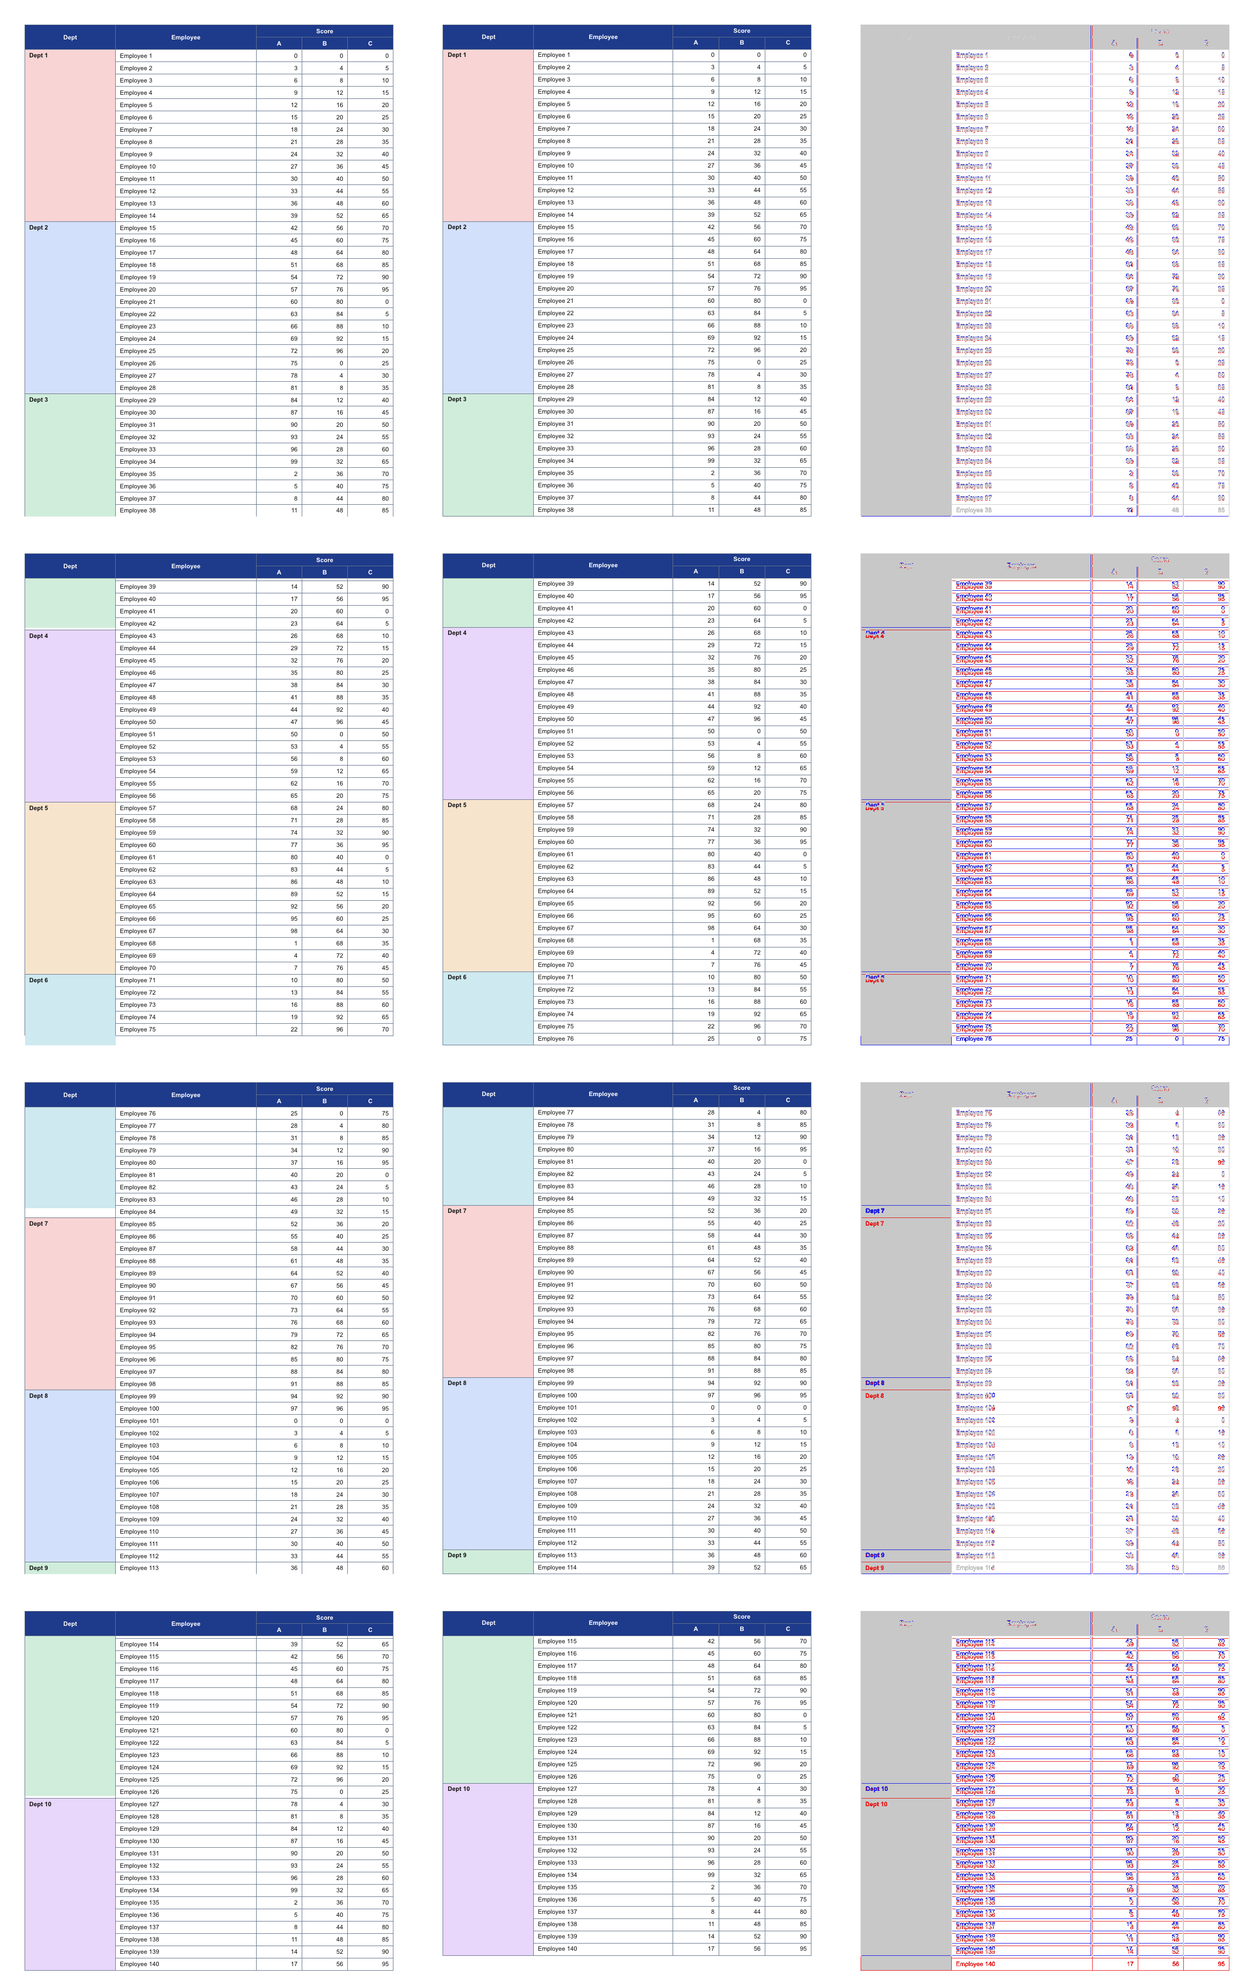
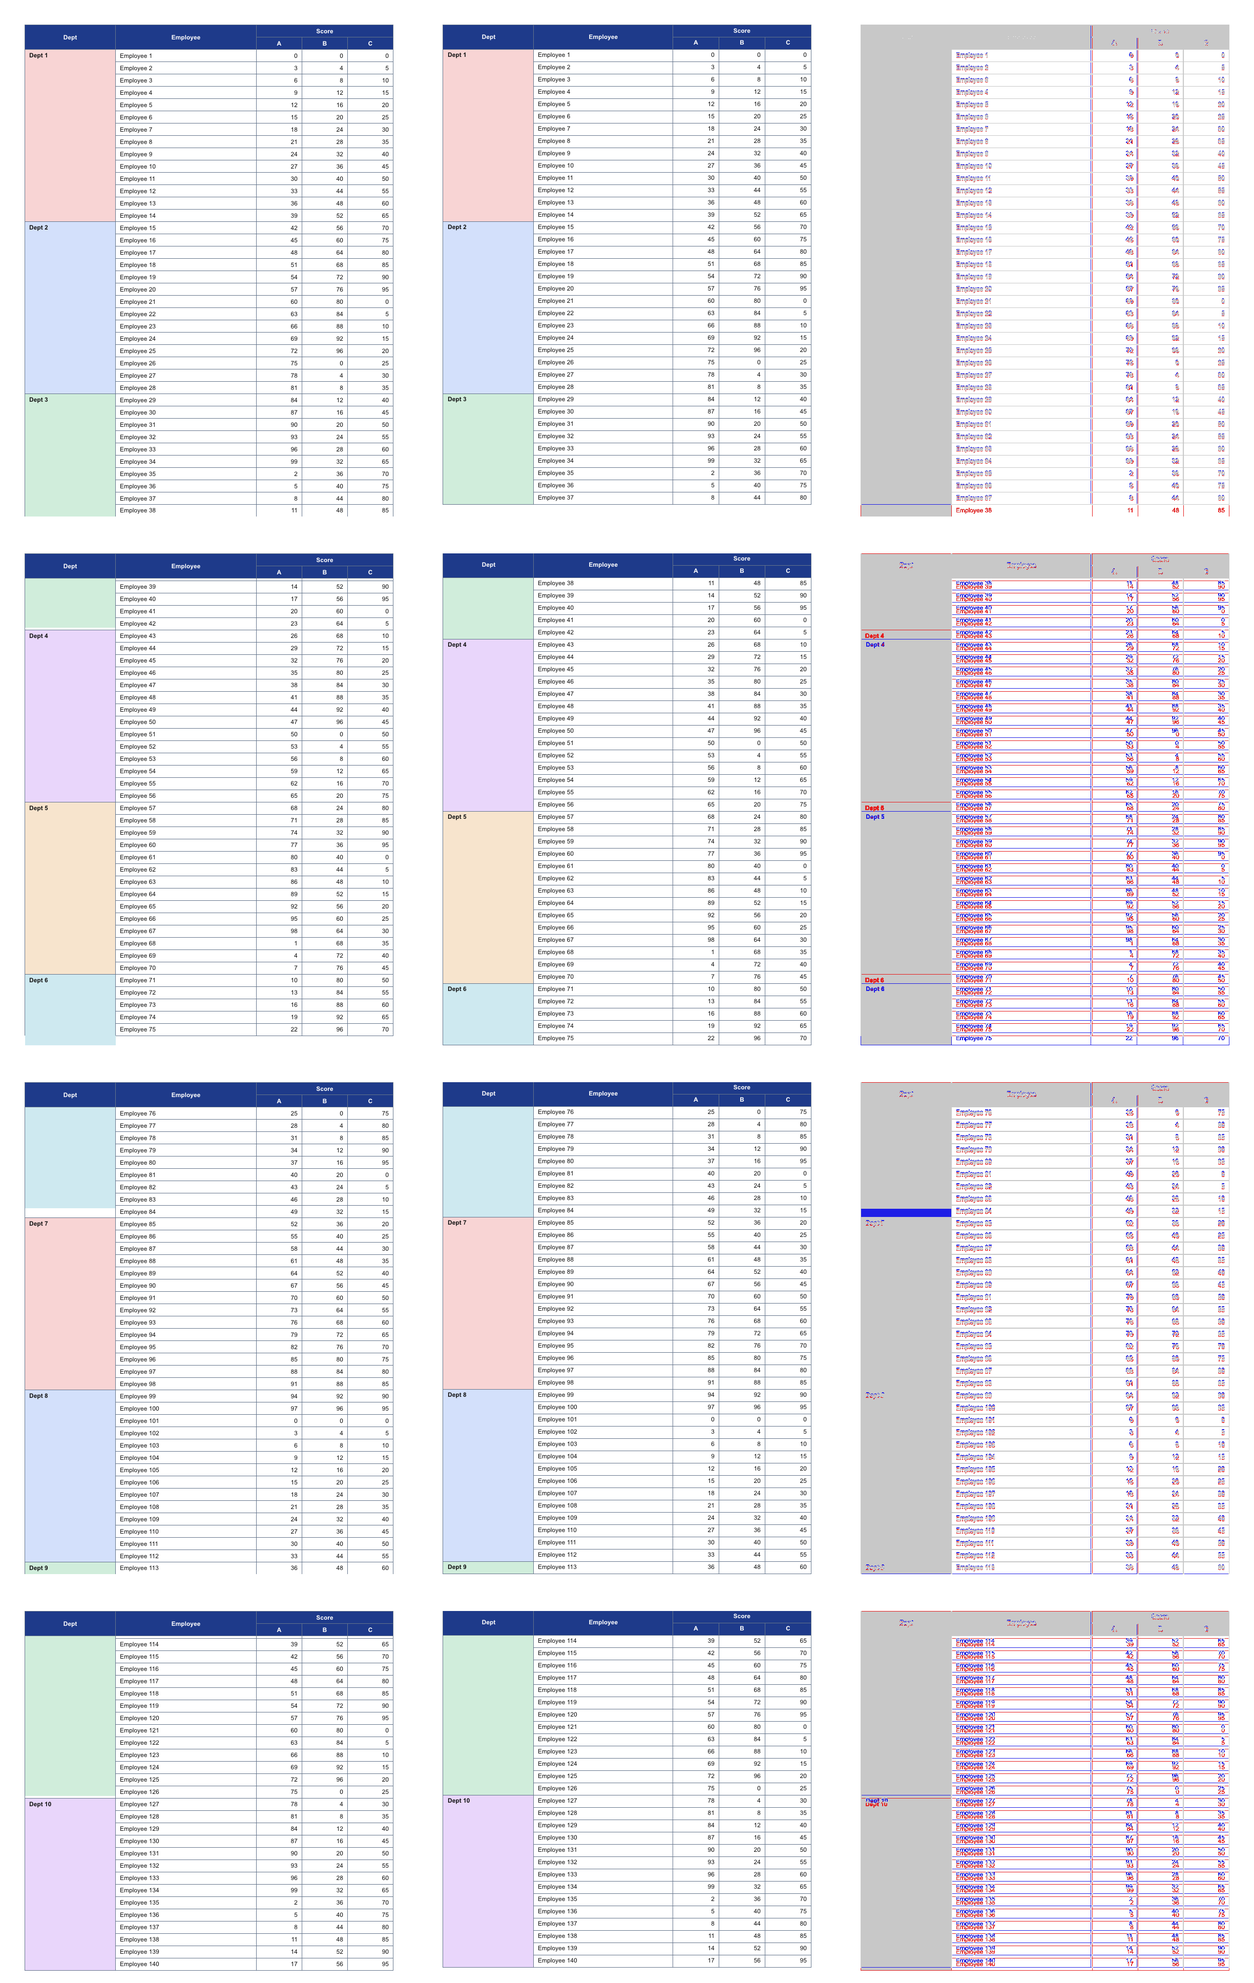
fix: repeated table headers open each page with their styling; table pagination matches Chrome (score 96.2)
- the header copy is forced onto a new page and carries the original header's computed background, colour and font
- a copy that no longer starts a page is removed again (two long tables in a row)
- table rows are never cut by a page break, a small rowspan group moves to the next page whole, a large one is split
- changelog, parity docs and baseline updated

diff --git a/vendor/fulgur/src/table_header.rs b/vendor/fulgur/src/table_header.rs
@@ -100,8 +100,10 @@ fn simulate(rows: &[RowInfo], header_height: f32, header_rows: usize, page_heigh
     starts
 }
 
-fn plan(doc: &BaseDocument, geometry: &PaginationGeometryTable, page_height: f32) -> Vec<Insertion> {
+fn plan(doc: &BaseDocument, geometry: &PaginationGeometryTable, page_height: f32) -> (Vec<Insertion>, Vec<usize>) {
     let mut out = Vec::new();
+    // body rows whose header copy no longer sits at the start of a page (see below)
+    let mut stale: Vec<usize> = Vec::new();
     for (table_id, node) in doc.tree().iter() {
         if node.element_data().is_none() || tag(doc, table_id) != Some("table") {
             continue;
@@ -143,6 +145,57 @@ fn plan(doc: &BaseDocument, geometry: &PaginationGeometryTable, page_height: f32
         if rows.len() < 2 {
             continue;
         }
+        // A page does not start in the middle of a small group of rows tied together by a `rowspan` cell (up to 4 rows): the break goes
+        // before the group's first row, so the group moves to the next page whole. A larger group is cut where the page ends (its
+        // spanning cell is split, see `plan_span_splits`).
+        let reach: Vec<usize> = rows
+            .iter()
+            .enumerate()
+            .map(|(i, r)| {
+                let span = element_children(doc, r.id)
+                    .into_iter()
+                    .filter_map(|c| {
+                        doc.get_node(c)
+                            .and_then(|n| n.element_data())
+                            .and_then(|e| crate::blitz_adapter::get_attr(e, "rowspan"))
+                            .and_then(|v| v.trim().parse::<usize>().ok())
+                    })
+                    .max()
+                    .unwrap_or(1)
+                    .clamp(1, 1000);
+                if span <= 4 { i + span - 1 } else { i }
+            })
+            .collect();
+        // A copy is stale when the row after it would have fitted on the page before: the copies put in front of earlier pages pushed the
+        // rows down, so the break that was predicted (before this row) now falls elsewhere. Left in place it would break the page for
+        // nothing, so it is taken out again.
+        // (Left alone in a table with `rowspan` cells, where a row's height is not the room it needs.)
+        let any_rowspan = rows.iter().any(|r| {
+            element_children(doc, r.id).into_iter().any(|c| {
+                doc.get_node(c)
+                    .and_then(|n| n.element_data())
+                    .and_then(|e| crate::blitz_adapter::get_attr(e, "rowspan"))
+                    .and_then(|v| v.trim().parse::<usize>().ok())
+                    .is_some_and(|n| n > 1)
+            })
+        });
+        if has_copies && !any_rowspan {
+            let gap = rows
+                .windows(2)
+                .find(|w| w[0].page == w[1].page)
+                .map_or(0.0, |w| (w[1].y - (w[0].y + w[0].height)).max(0.0));
+            for i in 1..rows.len() {
+                if copy_before.contains(&rows[i].id) {
+                    let (prev, row) = (&rows[i - 1], &rows[i]);
+                    // the row and the rest of its small `rowspan` group have to fit together
+                    let group_end = reach[i].min(rows.len() - 1).max(i);
+                    let needed: f32 = rows[i..=group_end].iter().map(|r| r.height).sum::<f32>() + gap * (group_end - i) as f32;
+                    if prev.page != row.page && prev.y + prev.height + gap + needed <= page_height + 0.5 {
+                        stale.push(rows[i].id);
+                    }
+                }
+            }
+        }
         let starts: Vec<usize> = if !has_copies && rows.last().map(|r| r.page) != rows.first().map(|r| r.page) {
             // First look at this table: predict every continuation page at once. The header height is the tallest cell
             // of each header row, added up; if the header was not laid out, fall back to the page-by-page rule below.
@@ -158,13 +211,22 @@ fn plan(doc: &BaseDocument, geometry: &PaginationGeometryTable, page_height: f32
         } else {
             react(&rows)
         };
+        let group_start = |mut i: usize| {
+            while i > 0 && (0..i).any(|j| reach[j] >= i) {
+                i = (0..i).find(|&j| reach[j] >= i).unwrap_or(i);
+            }
+            i
+        };
+        let mut starts: Vec<usize> = starts.into_iter().map(group_start).collect();
+        starts.sort_unstable();
+        starts.dedup();
         for i in starts {
-            if !copy_before.contains(&rows[i].id) {
+            if !copy_before.contains(&rows[i].id) && !stale.contains(&rows[i].id) {
                 out.push(Insertion { row: rows[i].id, header_rows: header_rows.clone() });
             }
         }
     }
-    out
+    (out, stale)
 }
 
 /// The rows that start a page after the first (as the layout stands now).
@@ -230,6 +292,30 @@ fn plan_span_splits(doc: &BaseDocument, container: usize, row: usize) -> (Vec<Sp
     (splits, row_cols)
 }
 
+/// The look a header cell gets from rules that name the `<thead>` (`thead th { background: ...; color: ... }`): a copy is put among the
+/// body rows, where those rules no longer match, so its background, text colour and font are written onto the copy as they computed
+/// on the original.
+fn header_look(doc: &BaseDocument, cell: usize) -> String {
+    let Some(st) = doc.get_node(cell).and_then(|n| n.primary_styles()) else {
+        return String::new();
+    };
+    let current = st.clone_color();
+    let rgba = |c: ::style::values::computed::Color| {
+        let c = c.resolve_to_absolute(&current).into_srgb_legacy();
+        let q = |v: f32| (v.clamp(0.0, 1.0) * 255.0).round() as u8;
+        format!("rgba({},{},{},{:.3})", q(c.components.0), q(c.components.1), q(c.components.2), c.alpha.clamp(0.0, 1.0))
+    };
+    let mut out = String::new();
+    let bg = st.clone_background_color().resolve_to_absolute(&current).into_srgb_legacy();
+    if bg.alpha > 0.0 {
+        out.push_str(&format!("background-color:{};", rgba(st.clone_background_color())));
+    }
+    out.push_str(&format!("color:{};", rgba(::style::values::computed::Color::currentcolor())));
+    out.push_str(&format!("font-weight:{};", st.clone_font_weight().value()));
+    out.push_str(&format!("font-size:{}px;", st.clone_font_size().computed_size().px()));
+    out
+}
+
 /// Put header copies in front of every body row that starts a continuation page and has none yet. Returns how many
 /// rows were added (0 means the layout is final).
 pub(crate) fn repeat_table_headers(
@@ -237,8 +323,23 @@ pub(crate) fn repeat_table_headers(
     geometry: &PaginationGeometryTable,
     page_height_px: f32,
 ) -> usize {
-    let insertions = plan(doc, geometry, page_height_px);
+    let (insertions, stale) = plan(doc, geometry, page_height_px);
     let mut added = 0;
+    // Take out the copies that no longer start a page: the copy rows directly in front of the row.
+    for row in stale {
+        let Some(parent) = doc.get_node(row).and_then(|n| n.parent) else { continue };
+        let siblings = element_children(doc, parent);
+        let Some(pos) = siblings.iter().position(|&r| r == row) else { continue };
+        let copies: Vec<usize> = siblings[..pos].iter().rev().take_while(|&&r| is_copy(doc, r)).copied().collect();
+        if copies.is_empty() {
+            continue;
+        }
+        let mut m = doc.mutate();
+        for c in &copies {
+            m.remove_and_drop_node(*c);
+        }
+        added += copies.len();
+    }
     for ins in insertions {
         let container = doc.get_node(ins.row).and_then(|n| n.parent);
         let (splits, row_cols) = match container {
@@ -268,12 +369,39 @@ pub(crate) fn repeat_table_headers(
                 blitz_dom::QualName::new(None, blitz_dom::ns!(), blitz_dom::LocalName::from(COPY_ATTR)),
                 "1",
             );
-            if k == 0 {
-                // Opens the page, so the copy is never left alone at the bottom of the one before. The break is read from
-                // a cell (the table's layout children are its cells), and only the first cell of the row asks for it.
-                let first_cell = m.doc.get_node(copy).and_then(|n| n.children.iter().copied().find(|&c| m.doc.get_node(c).is_some_and(|c| c.element_data().is_some())));
-                if let Some(cell) = first_cell {
-                    m.set_style_property(cell, "break-before", "page");
+            // The cells of the copy, in order, and the cells of the row it was cloned from.
+            let copy_cells: Vec<usize> = m
+                .doc
+                .get_node(copy)
+                .map(|n| n.children.iter().copied().filter(|&c| m.doc.get_node(c).is_some_and(|c| c.element_data().is_some())).collect())
+                .unwrap_or_default();
+            let original_cells = element_children(m.doc, h);
+            let style_name = || blitz_dom::QualName::new(None, blitz_dom::ns!(), blitz_dom::LocalName::from("style"));
+            for (i, &cell) in copy_cells.iter().enumerate() {
+                let existing = m
+                    .doc
+                    .get_node(cell)
+                    .and_then(|n| n.element_data())
+                    .and_then(|e| crate::blitz_adapter::get_attr(e, "style"))
+                    .unwrap_or("")
+                    .trim_end_matches(|c: char| c == ';' || c.is_whitespace())
+                    .to_string();
+                let mut style_attr = String::new();
+                // the original's computed look goes first, so the cell's own inline style still wins
+                if let Some(&orig) = original_cells.get(i) {
+                    style_attr.push_str(&header_look(m.doc, orig));
+                }
+                if !existing.is_empty() {
+                    style_attr.push_str(&existing);
+                    style_attr.push(';');
+                }
+                // Opens the page, so the copy is never left alone at the bottom of the one before. The break rules are read from the
+                // text of the `style` attribute (not the parsed style), only the first cell of the row asks for it.
+                if k == 0 && i == 0 {
+                    style_attr.push_str("break-before:page;");
+                }
+                if !style_attr.is_empty() {
+                    m.set_attribute(cell, style_name(), &style_attr);
                 }
             }
             copies.push(copy);

diff --git a/vendor/fulgur/src/pagination_layout.rs b/vendor/fulgur/src/pagination_layout.rs
@@ -1849,15 +1849,7 @@ fn fragment_block_subtree(
         .parent
         .and_then(|gp_id| doc.get_node(gp_id))
         .is_some_and(|gp| crate::blitz_adapter::is_orthogonal_to_parent(gp, parent));
-    // pdf-engine patch: the cells of a table row sit side by side like the items of a grid row, so a table gets the same row handling
-    // (a row that crosses a page break is cut in all its cells at once, and the rest continues from the same place).
-    let allow_same_row_rebase = crate::blitz_adapter::is_flex_or_grid_container_node(parent)
-        || parent.primary_styles().is_some_and(|st| {
-            matches!(
-                st.clone_display().inside(),
-                ::style::values::specified::box_::DisplayInside::Table
-            )
-        });
+    let allow_same_row_rebase = crate::blitz_adapter::is_flex_or_grid_container_node(parent);
     let suppress_page_check = allow_same_row_rebase
         || crate::blitz_adapter::is_atomic_inline_container_node(parent)
         || parent_is_orthogonal;
@@ -2360,9 +2352,19 @@ fn fragment_block_subtree(
         let first_child_may_move = page_start_y > 0.0 && child_h <= page_height_px;
         // pdf-engine patch: browsers slice a flex or grid item that crosses the page break (unless it asks
         // for `break-inside: avoid`); it does not jump to the next page whole.
+        // A table cell that spans rows (`rowspan`) is not cut: its group of rows moves to the next page together, otherwise the cell is
+        // cut while the cells beside it move whole and the rows come apart.
+        let spans_rows = child.element_data().is_some_and(|el| {
+            crate::blitz_adapter::get_attr(el, "rowspan")
+                .and_then(|v| v.trim().parse::<usize>().ok())
+                .is_some_and(|n| n > 1)
+        });
         let slice_item_here = !is_multicol
+            && !spans_rows
             && !child.element_data().is_some_and(|el| {
-                matches!(el.name.local.as_ref(), "table" | "img" | "svg")
+                // table rows stay whole: a row cut by the break puts its first fragment on one page and the rest on the next, and the
+                // header-repeat prediction then takes the next row for the first of the page
+                matches!(el.name.local.as_ref(), "table" | "img" | "svg" | "td" | "th")
             })
             && !matches!(
                 break_props.break_inside,

diff --git a/CHANGELOG.md b/CHANGELOG.md
@@ -9,7 +9,7 @@ image `zalven88/pdf-engine:X.Y.Z` (also `X.Y`, `X` and `latest`).
 Pagination, right-to-left text and a Chrome parity score. Every page of a growing corpus (now 188 pages: whole documents,
 one-feature probes, right-to-left pages, 84 pagination pages and 16 complex tables) is made by headless Chrome and by pdf-engine,
 both drawn by the same rasteriser, and scored. The score is on the [demo page](https://lands-horizon-corp.github.io/pdf-engine/)
-and described in [Parity with Chrome](.public/docs/parity.md). The first run scored 80.3; it is now 95.71 over all 188 pages (complex tables, the newest and hardest group, score 94.15: see Known gaps).
+and described in [Parity with Chrome](.public/docs/parity.md). The first run scored 80.3; it is now 96.21 over all 188 pages (complex tables, the newest and hardest group, score 93.16: see Known gaps).
 
 ### Added
 
@@ -42,6 +42,11 @@ and described in [Parity with Chrome](.public/docs/parity.md). The first run sco
   nearest the top-left, with `hidden` removing it; the table's own `border` takes part. A cell's layout holds half of it on each side
   and the outer border is drawn from the table's edge inward, as a browser does. A table of mixed border styles and colours now
   matches Chrome (72 to 100).
+- **A repeated `<thead>` opens each page and keeps its look.** The copy is forced onto a new page (it could sit at the bottom of the page
+  before), it carries the original header's computed background, text colour and font (the copy lives among the body rows, where
+  `thead th { ... }` rules no longer match), a copy that no longer starts a page is taken out again (two long tables one after the other
+  got a stray header and a one-row page), and rows are never cut by a page break, so the header prediction stays right. Eleven of the
+  twelve table pagination pages now match Chrome at 99.8 to 100.
 - **`vertical-align` works in table cells** (`middle` is the default for `td`, also `top` and `bottom`): the content sits in the middle
   of the room the row gives it. It was always at the top of the cell.
 - **Table row backgrounds are painted.** `<tr style="background:...">` and zebra stripes (`tr:nth-child(even)`) were never drawn, because a row has no
@@ -67,9 +72,8 @@ and described in [Parity with Chrome](.public/docs/parity.md). The first run sco
   `padding-inline-*`, and `text-indent` at the start side.
 - `::before`/`::after` with `display: block` lay out side by side; an inline `<span>` with only a space
   paints no background; `column-rule` on a box that must split across columns.
-- A repeated `<thead>` can sit at the bottom of the page before when it fits there (it is not forced to open the next page), and a
-  table row is moved whole to the next page instead of being split across the break as Chrome does; the header copy also loses
-  `thead th` styling. Forcing the break alone adds pages, so it needs row splitting first.
+- A table row is moved whole to the next page, where Chrome cuts it at the page break and continues it after the repeated header
+  (so the last rows of a page can differ by one row). Matching that needs the header drawn as a page-level fragment, not a copied row.
 - Long documents drift from Chrome's page breaks because Chrome draws `sans-serif` as Helvetica and the engine as Noto Sans,
   which has looser line spacing.
 

diff --git a/.public/docs/parity.md b/.public/docs/parity.md
@@ -44,12 +44,13 @@ No tuning per case, no alignment of the two pages before comparing, and the thre
 
 ## Where it stands (28 October 2026, pdf-engine 1.4.1 plus the patches below, Chrome 156)
 
-Score **95.71, HEALTHY**: 164 pass, 18 close, 6 fail, of 188 cases. The first run, on 88 cases, scored 80.3.
+Score **96.21, HEALTHY**: 168 pass, 14 close, 6 fail, of 188 cases. The first run, on 88 cases, scored 80.3.
 
 What moved it (every engine change is in the `PATCHES.md` of `vendor/fulgur`, `vendor/parley` and `vendor/blitz-dom`):
 
 - **Both sides use standards mode.** Several fixtures have no `<!doctype>`, which Chrome renders in quirks mode. The driver adds a
   doctype to both renderers: a change to the comparison, not to the engine. pdf-engine has no quirks mode.
+- **Repeated table headers** open every page, keep their styling and are removed again when a layout shift makes them stray.
 - **Tables:** `border-collapse: collapse` is a real collapsed-borders model (one border per shared edge, the widest and strongest
   wins), `vertical-align` works in cells, row backgrounds are painted, columns of a `width: 100%` table share the spare width in proportion to their content,
   a `rowspan` cell's `height` is spread over the rows it spans, `border-spacing` is applied, a cell with a nested table
@@ -71,11 +72,10 @@ What moved it (every engine change is in the `PATCHES.md` of `vendor/fulgur`, `v
 | --- | ---: | ---: |
 | columns | 34.4 | 0 of 1 |
 | backgrounds | 85.7 | 6 of 7 |
-| pagination: tables | 90.6 | 7 of 12 |
 | positioning | 91.8 | 2 of 3 |
 | box model and selectors | 91.9 | 7 of 8 |
-| whole documents | 93.5 | 15 of 20 |
-| complex tables | 94.2 | 12 of 16 |
+| complex tables | 93.2 | 11 of 16 |
+| whole documents | 93.6 | 15 of 20 |
 | pagination: headers and footers | 96.2 | 11 of 12 |
 | pagination: break-inside avoid | 96.6 | 11 of 12 |
 | right-to-left | 96.8 | 4 of 4 |
@@ -84,6 +84,7 @@ What moved it (every engine change is in the `PATCHES.md` of `vendor/fulgur`, `v
 | pagination: flex and grid | 97.7 | 11 of 12 |
 | borders | 99.2 | 15 of 16 |
 | pagination: forced breaks | 99.3 | 12 of 12 |
+| pagination: tables | 99.6 | 12 of 12 |
 | colour and opacity | 100.0 | 4 of 4 |
 | flexbox and grid | 100.0 | 3 of 3 |
 | images | 100.0 | 2 of 2 |
